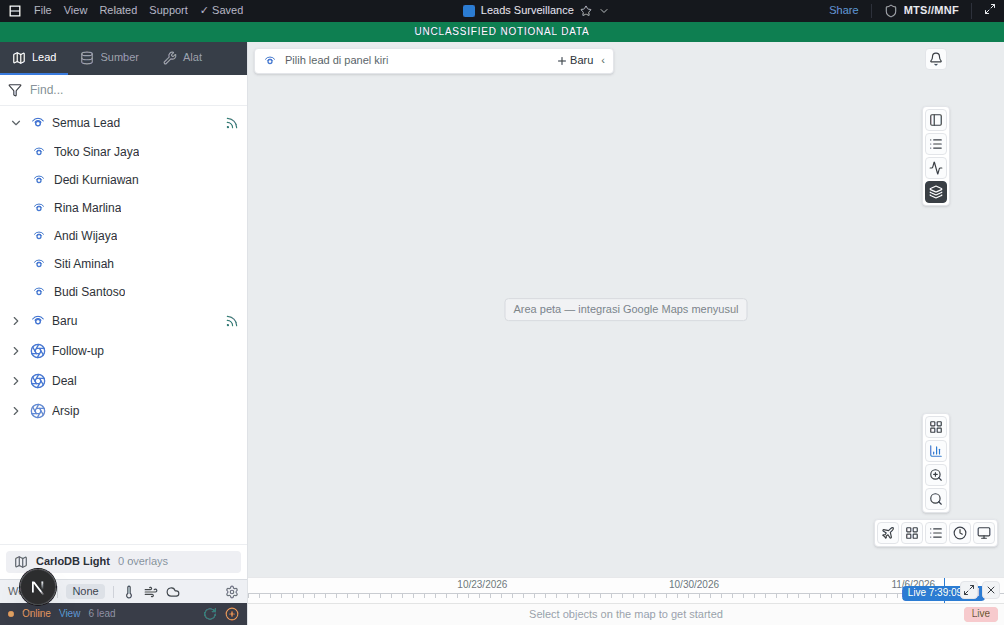
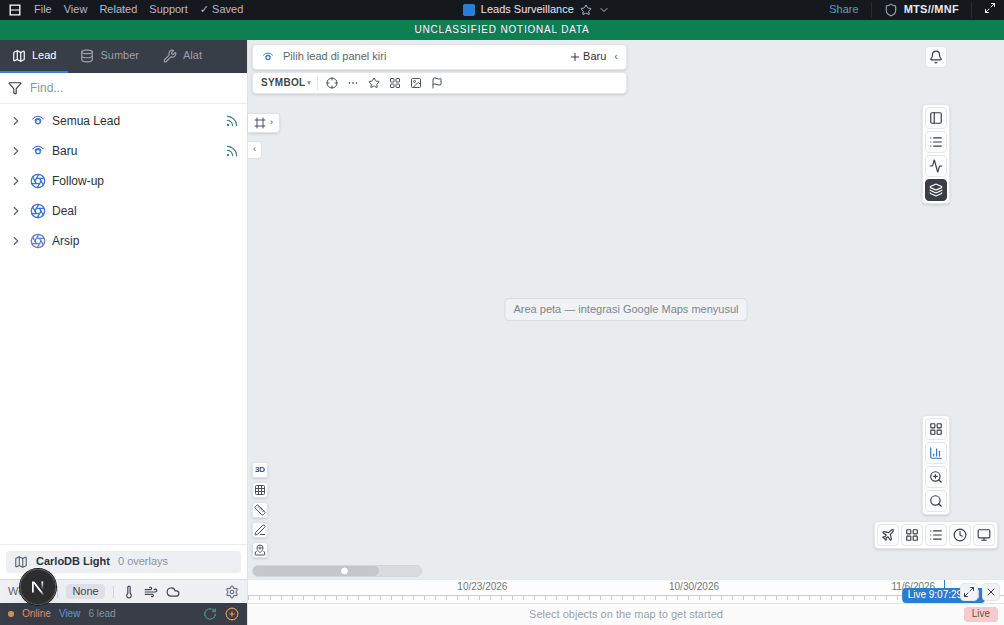
fix(ui): samakan tata letak dengan design1
- Tambah baris SYMBOL + 6 tombol simbol di panel editor (sesuai design1)
- Tambah tool strip kiri peta (3D/grid/ukur/gambar/pin) + slider abu, dan handle tepi kiri + chevron
- Tree default ringkas 5 baris (anak muncul saat grup diklik) seperti design1
- Bar atas 20px, timeline 24px, alignment vertikal diff jadi 0px
- Verifikasi ulang: match 86.2-88.1% (tanpa area peta 81.9-86.4%); screenshot & laporan diperbarui

Agent: OpenCode

diff --git a/components/shell/LeadEditor.tsx b/components/shell/LeadEditor.tsx
@@ -1,6 +1,15 @@
 "use client";
 
-import { Aperture, Plus } from "lucide-react";
+import {
+  Aperture,
+  Crosshair,
+  Ellipsis,
+  Flag,
+  Image,
+  LayoutGrid,
+  Plus,
+  Star,
+} from "lucide-react";
 import {
   startTransition,
   useState,
@@ -23,9 +32,13 @@ function Field({ label, children }: { label: string; children: ReactNode }) {
   );
 }
 
+const SYMBOL_ICONS = [Crosshair, Ellipsis, Star, LayoutGrid, Image, Flag];
+
 export default function LeadEditor({
   lead,
   creating,
+  collapsed,
+  onCollapsedChange,
   onSaved,
   onDone,
   onDeleted,
@@ -33,12 +46,13 @@ export default function LeadEditor({
 }: {
   lead: Lead | null;
   creating: boolean;
+  collapsed: boolean;
+  onCollapsedChange: (value: boolean) => void;
   onSaved: (id: number) => void;
   onDone: () => void;
   onDeleted: () => void;
   onNew: () => void;
 }) {
-  const [collapsed, setCollapsed] = useState(false);
   const [pending, setPending] = useState(false);
   const [deleting, setDeleting] = useState(false);
   const [error, setError] = useState<string | null>(null);
@@ -75,7 +89,7 @@ export default function LeadEditor({
     return (
       <button
         type="button"
-        onClick={() => setCollapsed(false)}
+        onClick={() => onCollapsedChange(false)}
         title="Buka panel lead"
         className="absolute top-1.5 left-1.5 flex items-center gap-1.5 rounded-sm border border-[#e3e5e9] bg-white px-2 py-1 text-[11px] shadow-sm"
       >
@@ -88,7 +102,7 @@ export default function LeadEditor({
   const active = creating || lead !== null;
 
   return (
-    <div className="absolute top-1.5 left-1.5 w-[360px] text-[11px]">
+    <div className="absolute top-1 left-1 w-[375px] text-[11px]">
       <div className="flex h-[26px] items-center gap-2 rounded-sm border border-[#e3e5e9] bg-white px-2 shadow-sm">
         {creating ? (
           <>
@@ -124,12 +138,30 @@ export default function LeadEditor({
         </button>
         <button
           type="button"
-          onClick={() => setCollapsed(true)}
+          onClick={() => onCollapsedChange(true)}
           title="Kecilkan"
           className="shrink-0 text-[#5b626b] hover:text-[#2c3138]"
         >
           ‹
         </button>
+      </div>
+
+      <div className="mt-0.5 flex h-[22px] items-center gap-1.5 rounded-sm border border-[#e3e5e9] bg-white px-2 shadow-sm">
+        <span className="flex items-center gap-0.5 text-[10px] font-semibold tracking-wide text-[#3f4650]">
+          SYMBOL
+          <span className="text-[7px] text-[#8b929c]">▾</span>
+        </span>
+        <span className="h-3.5 w-px bg-[#e6e8ea]" />
+        {SYMBOL_ICONS.map((Icon, index) => (
+          <button
+            key={index}
+            type="button"
+            title="Alat simbol peta (menyusul dengan peta)"
+            className="flex size-[15px] items-center justify-center rounded-[3px] text-[#4a5058] hover:bg-[#f0f2f4]"
+          >
+            <Icon className="size-3" />
+          </button>
+        ))}
       </div>
 
       {active && (

diff --git a/components/shell/MapOverlays.tsx b/components/shell/MapOverlays.tsx
@@ -1,0 +1,82 @@
+import { Frame, Grid3x3, MapPinned, PenLine, Ruler } from "lucide-react";
+
+const TOOL_TILE =
+  "flex size-4 items-center justify-center rounded-[3px] border border-[#dfe3e7] bg-white/95 text-[#4a5058] shadow-sm";
+
+export function MapLeftTools() {
+  return (
+    <>
+      <div className="absolute bottom-[21px] left-1 flex flex-col gap-1">
+        <button
+          type="button"
+          title="3D (menyusul dengan peta)"
+          className={`${TOOL_TILE} text-[8px] font-bold`}
+        >
+          3D
+        </button>
+        <button
+          type="button"
+          title="Grid (menyusul dengan peta)"
+          className={TOOL_TILE}
+        >
+          <Grid3x3 className="size-3" />
+        </button>
+        <button
+          type="button"
+          title="Ukur (menyusul dengan peta)"
+          className={TOOL_TILE}
+        >
+          <Ruler className="size-3" />
+        </button>
+        <button
+          type="button"
+          title="Gambar (menyusul dengan peta)"
+          className={TOOL_TILE}
+        >
+          <PenLine className="size-3" />
+        </button>
+        <button
+          type="button"
+          title="Tandai lokasi (menyusul dengan peta)"
+          className={TOOL_TILE}
+        >
+          <MapPinned className="size-3" />
+        </button>
+      </div>
+      <div
+        title="Slider peta (menyusul dengan peta)"
+        className="absolute bottom-[2px] left-1 h-[12px] w-[170px] rounded-full border border-[#d3d6da] bg-[#d9dcdf]"
+      >
+        <div className="h-full w-3/4 rounded-full bg-[#c3c7cc]" />
+        <div className="absolute top-1/2 left-[52%] size-[9px] -translate-y-1/2 rounded-full border border-[#b9bdc2] bg-white" />
+      </div>
+    </>
+  );
+}
+
+export function MapEdgeControls({
+  onToggleEditor,
+}: {
+  onToggleEditor: () => void;
+}) {
+  return (
+    <>
+      <button
+        type="button"
+        onClick={onToggleEditor}
+        title="Buka/tutup panel lead"
+        className="absolute top-[73px] left-0 flex h-[20px] items-center gap-1 rounded-r-sm border border-l-0 border-[#dfe3e7] bg-white px-1.5 text-[#4a5058] shadow-sm"
+      >
+        <Frame className="size-3" />
+        <span className="text-[9px]">›</span>
+      </button>
+      <button
+        type="button"
+        title="Menyusul dengan peta"
+        className="absolute top-[101px] left-0 flex h-[18px] w-[14px] items-center justify-center rounded-r-sm border border-l-0 border-[#dfe3e7] bg-white text-[#4a5058]"
+      >
+        <span className="text-[9px]">‹</span>
+      </button>
+    </>
+  );
+}

diff --git a/components/shell/Shell.tsx b/components/shell/Shell.tsx
@@ -7,6 +7,7 @@ import type { Lead } from "@/lib/leads";
 import { BottomLeft, BottomRight, GreenStrip, WeatherStrip } from "./Chrome";
 import LeadEditor from "./LeadEditor";
 import LeftPanel from "./LeftPanel";
+import { MapEdgeControls, MapLeftTools } from "./MapOverlays";
 import RightToolbar from "./RightToolbar";
 import Timeline from "./Timeline";
 import TopBar from "./TopBar";
@@ -15,6 +16,7 @@ export default function Shell({ leads }: { leads: Lead[] }) {
   const router = useRouter();
   const [selectedId, setSelectedId] = useState<number | null>(null);
   const [creating, setCreating] = useState(false);
+  const [editorCollapsed, setEditorCollapsed] = useState(false);
   const [showToolbar, setShowToolbar] = useState(true);
 
   const selected = useMemo(
@@ -62,9 +64,15 @@ export default function Shell({ leads }: { leads: Lead[] }) {
             <div className="absolute top-1/2 left-1/2 -translate-x-1/2 -translate-y-1/2 rounded-sm border border-[#d7dade] bg-[#f2f3f4]/90 px-2 py-1 text-[11px] text-[#7d848d]">
               Area peta — integrasi Google Maps menyusul
             </div>
+            <MapLeftTools />
+            <MapEdgeControls
+              onToggleEditor={() => setEditorCollapsed((value) => !value)}
+            />
             <LeadEditor
               lead={selected}
               creating={creating}
+              collapsed={editorCollapsed}
+              onCollapsedChange={setEditorCollapsed}
               onSaved={selectLead}
               onDone={() => setCreating(false)}
               onDeleted={() => {

diff --git a/components/shell/LeftPanel.tsx b/components/shell/LeftPanel.tsx
@@ -45,9 +45,8 @@ export default function LeftPanel({
 }) {
   const [tab, setTab] = useState<Tab>("lead");
   const [query, setQuery] = useState("");
-  const [expanded, setExpanded] = useState<Record<string, boolean>>({
-    all: true,
-  });
+  // default ringkas seperti design1: 5 baris grup, anak muncul saat diklik
+  const [expanded, setExpanded] = useState<Record<string, boolean>>({});
 
   const groups = useMemo(() => {
     const q = query.trim().toLowerCase();

diff --git a/components/shell/TopBar.tsx b/components/shell/TopBar.tsx
@@ -49,7 +49,7 @@ export default function TopBar({
   }
 
   return (
-    <header className="flex h-[22px] shrink-0 items-center gap-3 bg-[#15181d] px-2 text-[11px] text-[#e8eaed]">
+    <header className="flex h-[20px] shrink-0 items-center gap-3 bg-[#15181d] px-2 text-[11px] text-[#e8eaed]">
       <LogoMark className="size-3.5 shrink-0 text-white" />
       <nav className="hidden items-center gap-3 text-[#b6bcc4] md:flex">
         {MENU.map((item) => (

diff --git a/components/shell/Timeline.tsx b/components/shell/Timeline.tsx
@@ -43,7 +43,7 @@ export default function Timeline({
   ];
 
   return (
-    <div className="relative h-[26px] shrink-0 border-t border-[#e7e8ea] bg-[#fdfdfd]">
+    <div className="relative h-[24px] shrink-0 border-t border-[#e7e8ea] bg-[#fdfdfd]">
       <div
         className="absolute inset-x-0 top-[15px] h-[5px]"
         style={{

diff --git a/docs/design-clone-report.md b/docs/design-clone-report.md
@@ -3,9 +3,11 @@
 Dokumen ini untuk dibaca manusia **dan agent** yang melanjutkan pekerjaan di repo ini.
 Referensi: `design1.jpeg`, `design2.jpeg`, `design3.jpeg` di root repo; `AGENTS.md` §Catatan Desain.
 
+Riwayat: versi awal (PR #3) → **revisi layout design1** (PR #5): baris `SYMBOL`, tool strip kiri + slider, handle tepi kiri, tree ringkas, dan tinggi bar atas 20px agar tata letak design1 sama persis.
+
 ## 1. Ringkasan
 
-- Ketiga gambar adalah **UI yang sama** pada ukuran jendela berbeda. Jadi implementasinya **satu UI responsif**, bukan tiga halaman.
+- Ketiga gambar adalah **UI yang sama** pada ukuran jendela berbeda. Jadi implementasinya **satu UI responsif**, bukan tiga halaman. Tata letak mengikuti **design1** (versi revisi).
 - Keputusan pemilik repo (hasil sesi tanya-jawab):
   - **Label chrome dipertahankan persis** seperti design (`Find...`, `Share`, `MTS//MNF`, `UNCLASSIFIED NOTIONAL DATA`, `CarloDB Light` / `0 overlays`, `Weather` / `None`, `Online View`, teks status bar, elemen timeline).
   - **Isi panel diadaptasi ke domain leads** (tab `Lead`/`Sumber`/`Alat`, kategori `Semua Lead`/`Baru`/`Follow-up`/`Deal`/`Arsip`, tombol `+ Baru`).
@@ -45,9 +47,9 @@ Area aplikasi = mulai bar hitam teratas (di bawah chrome browser) sampai bar baw
 | Chip `Live` pink | `#f7cacd` |
 | Latar area peta (design) | ~`#e9ecee` |
 
-### 2.3 Metrik elemen (dari pengukuran gambar)
+### 2.3 Metrik elemen (dari pengukuran gambar; nilai implementasi)
 
-- Bar atas: 20–22px; strip hijau: 19–20px; tab bar panel: 33px; lebar panel kiri: 248px; baris tree: 30px; bar bawah: 21–22px; timeline: ±26px; tile toolbar kanan: 22px.
+- Bar atas: 20px; strip hijau: 20px; tab bar panel: 33px; lebar panel kiri: 248px; baris tree: 30px; bar bawah: 22px; timeline: 24px; tile toolbar kanan: 22px; tile tool strip kiri: 16px; slider peta: 170×12px; panel editor: 375px.
 
 ## 3. Pemetaan elemen design → implementasi
 
@@ -56,10 +58,13 @@ Area aplikasi = mulai bar hitam teratas (di bawah chrome browser) sampai bar baw
 | Bar atas + menu `File…✓ Saved`, judul tengah, `Share`, `MTS//MNF`, fullscreen | `TopBar` (Share = salin URL, bintang = tersimpan lokal, fullscreen = nyata; menu inert) | `components/shell/TopBar.tsx` |
 | Strip hijau `UNCLASSIFIED NOTIONAL DATA` | `GreenStrip` (persis) | `components/shell/Chrome.tsx` |
 | Tab bar `Map layers / Data sources / Tools` | tab `Lead / Sumber / Alat` (adaptasi) | `components/shell/LeftPanel.tsx` |
-| `Find...` + tree layer | pencarian + tree lead per status (lihat §4) | `components/shell/LeftPanel.tsx` |
+| `Find...` + tree layer | pencarian + tree lead per status; **default ringkas 5 baris**, anak muncul saat grup diklik | `components/shell/LeftPanel.tsx` |
 | Chip `CarloDB Light · 0 overlays` | sama persis (dekoratif) | `components/shell/LeftPanel.tsx` |
 | Strip `Weather │ None` + ikon cuaca + gear | `WeatherStrip` (dekoratif) | `components/shell/Chrome.tsx` |
-| Bar `Adding to … + New ‹` + panel `SYMBOL` | panel editor lead (`Menambah ke … + Baru ‹`), baris `SYMBOL` (alat gambar peta) dihilangkan | `components/shell/LeadEditor.tsx` |
+| Bar `Adding to … + New ‹` | panel editor lead (`Menambah ke … + Baru ‹`), lebar 375px sesuai design1 | `components/shell/LeadEditor.tsx` |
+| Baris `SYMBOL` + 6 tombol simbol | baris `SYMBOL ▾` + 6 ikon (inert, tooltip "menyusul dengan peta") | `components/shell/LeadEditor.tsx` |
+| Tool strip kiri peta (`3D`, grid, ukur, gambar, pin) + slider abu | `MapLeftTools` (inert + tooltip) | `components/shell/MapOverlays.tsx` |
+| Handle `▤ ›` di tepi kiri + chevron kecil `‹` | `MapEdgeControls` (handle = buka/tutup panel lead; chevron inert) | `components/shell/MapOverlays.tsx` |
 | Toolbar ikon kanan (3 grup + bell) | 3 grup tile + bell; aksi peta inert dengan tooltip "menyusul dengan peta" | `components/shell/RightToolbar.tsx` |
 | Timeline + chip `Live h:mm:ss` + tombol sudut + chip pink `Live` | tanggal = minggu berjalan, jam = waktu nyata (berdetak), chip pink persis | `components/shell/Timeline.tsx`, `Chrome.tsx` |
 | Bar bawah `● Online View │ 72 interactive elements │ ⟳ ⊕` | `Online View` + jumlah lead nyata + tombol muat ulang / lead baru | `components/shell/Chrome.tsx` |
@@ -86,9 +91,11 @@ Area aplikasi = mulai bar hitam teratas (di bawah chrome browser) sampai bar baw
 
 | Design | Match ≤24 (seluruh area) | Match ≤24 (tanpa area peta) | MAE | Offset alignment |
 | --- | --- | --- | --- | --- |
-| design1 | 86.6% | 82.7% | 18.1 | (0, −4) |
-| design2 | 87.7% | 84.4% | 17.7 | (2, −2) |
-| design3 | 85.9% | 80.1% | 20.0 | (2, −2) |
+| design1 | 86.8% | 84.2% | 17.7 | (0, 0) |
+| design2 | 88.1% | 86.4% | 17.0 | (2, 0) |
+| design3 | 86.2% | 81.9% | 19.4 | (2, 0) |
+
+Setelah revisi layout, pergeseran vertikal sudah **0px** (sebelumnya −2…−4px).
 
 Interpretasi:
 - **Area peta ≈ 63% dari gambar** dan memang dikosongkan (menunggu Google Maps) — kontributor selisih terbesar. Inilah alasan utama angka tidak ~100%.
@@ -98,12 +105,12 @@ Interpretasi:
 ## 6. Deviasi & aproksimasi (disengaja)
 
 1. Chrome browser macOS tidak dibuat (keputusan pemilik repo).
-2. Area peta kosong + label kecil "Area peta — integrasi Google Maps menyusul".
-3. Label panel & isi tree diadaptasi ke leads (lihat §1); label chrome dipertahankan persis.
-4. Baris `SYMBOL` (alat menggambar simbol peta) tidak diimplementasikan — bagian dari integrasi peta.
-5. Ikon pihak ketiga memakai `lucide-react` sebagai aproksimasi glyph Palantir; glyph entity & logo dibuat custom.
-6. Timeline memakai tanggal minggu berjalan (bukan `3/15/2022`) dan jam nyata; chip pink `Live` dekoratif.
-7. Tombol toolbar kanan yang berhubungan peta = inert + tooltip "menyusul dengan peta". Tombol yang hidup: fullscreen, sembunyikan/tampilkan toolbar, muat ulang, `+ Baru`, ekspor CSV, Share, bintang tersimpan.
+2. Area peta kosong + label "Area peta — integrasi Google Maps menyusul"; elemen peta di design (marker, label, rute, polygon) tidak dibuat.
+3. Label panel & isi tree diadaptasi ke leads (lihat §1).
+4. Baris `SYMBOL`, tool strip kiri (`3D`/grid/ukur/gambar/pin), slider, dan chevron `‹` diimplementasikan **sesuai posisi design1 tetapi inert** (tooltip "menyusul dengan peta"); bukan bagian fungsional.
+5. Tree: chevron ada di semua baris grup (di design hanya sebagian) karena semua baris di sini adalah grup yang bisa dibuka; default semua tertutup mengikuti bentuk ringkas design1.
+6. Ikon pihak ketiga memakai `lucide-react` sebagai aproksimasi glyph Palantir; glyph entity & logo dibuat custom.
+7. Timeline memakai tanggal minggu berjalan (bukan `3/15/2022`) dan jam nyata; chip pink `Live` dekoratif.
 8. `components/LeadsDashboard.tsx` dan `components/MapEmbed.tsx` (versi awal issue #1) dihapus — tersedia di riwayat git.
 9. Font memakai Geist bawaan scaffold (font Palantir proprietary, tidak disertakan).
 
@@ -114,7 +121,8 @@ app/page.tsx                      halaman utama (server) → Shell
 components/shell/Shell.tsx        root client: state seleksi/editor/toolbar
 components/shell/TopBar.tsx       bar hitam atas
 components/shell/LeftPanel.tsx    tab Lead/Sumber/Alat, Find..., tree lead
-components/shell/LeadEditor.tsx   panel editor lead (tambah/ubah/hapus)
+components/shell/LeadEditor.tsx   panel editor lead + baris SYMBOL
+components/shell/MapOverlays.tsx  tool strip kiri, slider, handle tepi
 components/shell/Timeline.tsx     timeline + jam live
 components/shell/RightToolbar.tsx toolbar ikon kanan
 components/shell/Chrome.tsx       GreenStrip, WeatherStrip, bar bawah
